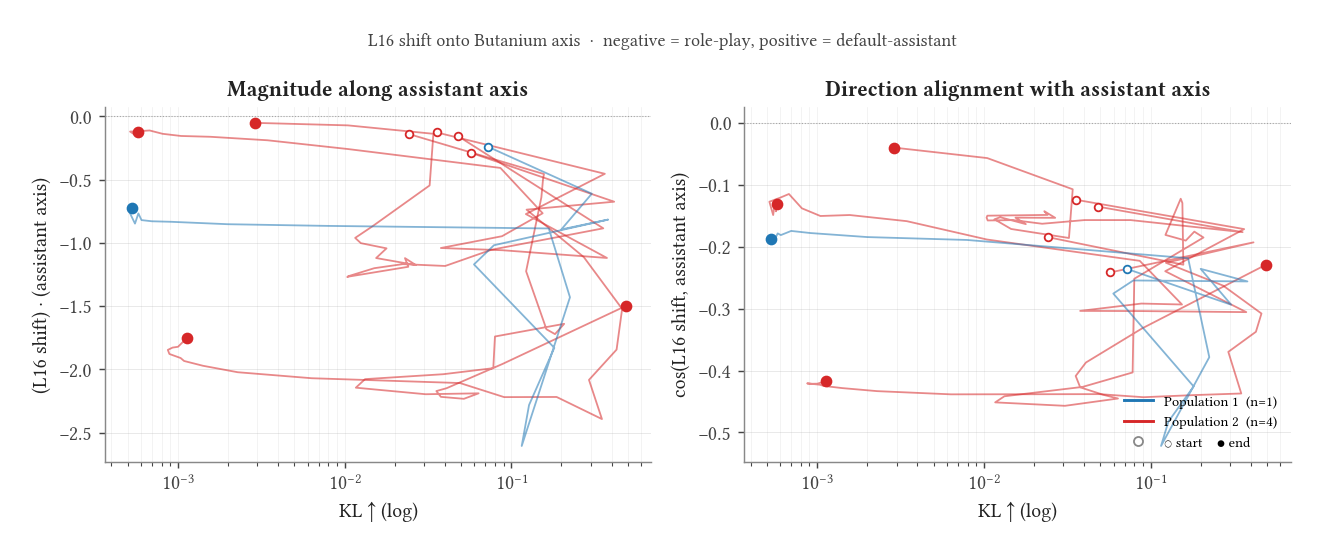
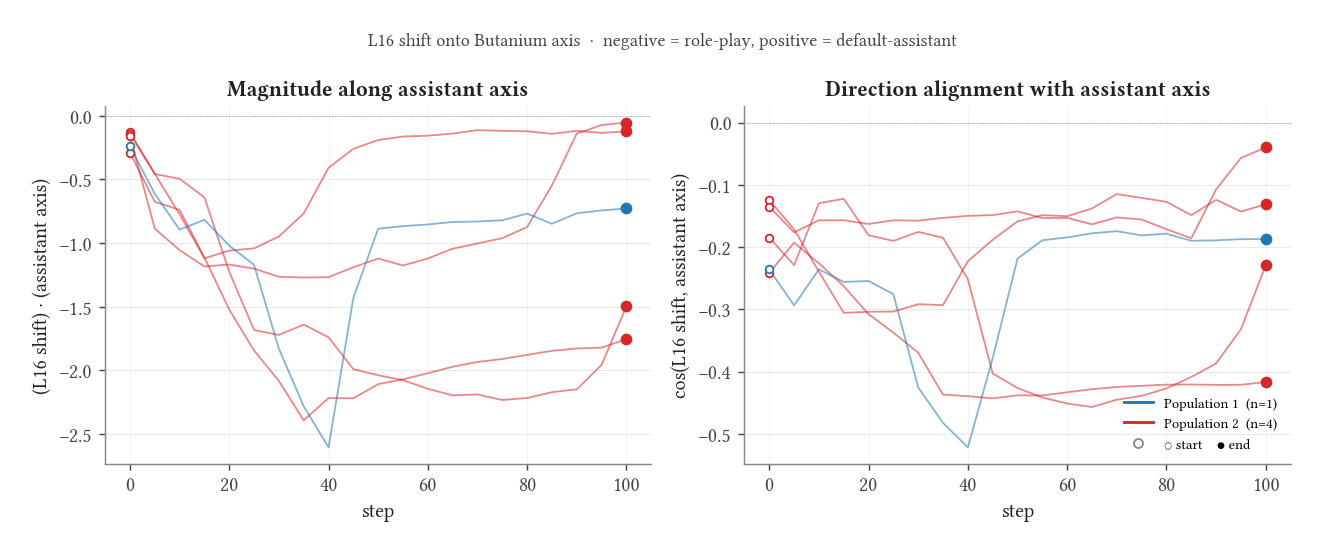
Add --x step option to replot_axis.py; chain axis.png uses step axis
KL is non-monotonic in chain training (sawtoothes per segment, then
collapses). Step is the only monotonic progression, so it's the right
x-axis for chain runs. Static-teacher runs still use --x kl (default).

Chain axis.png with step on x makes the trajectory shape obvious:
all 5 seeds dip toward role-play (low cos) mid-training around step
30-50, then most recover toward vanilla. Seed_0 (Scottish persona)
stays at cos ≈ -0.42; seed_4 (briefly deep) recovers to ≈-0.19;
seeds 1, 3 (vanilla-collapsed) end near cos ≈-0.05 / -0.13.

diff --git a/scripts/replot_axis.py b/scripts/replot_axis.py
@@ -4,9 +4,16 @@ The full csp_div.analyze_assistant_axis pipeline does a GPU eval pass to
 *generate* axis.json. Once that data exists, the figure is just a function
 of the JSON — re-rendering with a new style needs no GPU.
 
+X-axis choice:
+  --x kl   (default): log KL on x — appropriate for static-teacher runs
+                      where KL grows monotonically with training.
+  --x step           : training step on x — appropriate for chain-teacher
+                      runs where KL is non-monotonic (sawtoothes, then
+                      collapses) and step is the only monotonic progression.
+
 Usage:
   python scripts/replot_axis.py results/qwen/axis.json
-  python scripts/replot_axis.py results/qwen/axis.json results/llama/axis.json ...
+  python scripts/replot_axis.py --x step results/llama_chain/axis.json
 """
 import argparse
 import json
@@ -17,12 +24,26 @@ matplotlib.use("Agg")
 import matplotlib.pyplot as plt
 
 from csp_div.plot_style import (
-    basin_color, basin_legend, draw_endpoints, draw_trajectory,
+    EDGE_COLOR, basin_color, basin_legend, draw_endpoints, draw_trajectory,
     panel_title, style_kl_axis, trajectory_basin,
 )
 
 
-def replot(axis_json_path, out_path=None):
+def _style_step_axis(ax, ylabel):
+    """Linear-step variant of style_kl_axis. Same chrome conventions."""
+    ax.axhline(0, color=EDGE_COLOR, linewidth=0.6, linestyle=":", alpha=0.7)
+    ax.set_xlabel("step")
+    ax.set_ylabel(ylabel)
+    ax.yaxis.grid(True, alpha=0.3, linewidth=0.5)
+    ax.xaxis.grid(True, alpha=0.2, linewidth=0.4)
+    ax.set_axisbelow(True)
+    ax.spines["top"].set_visible(False)
+    ax.spines["right"].set_visible(False)
+    ax.spines["left"].set_color(EDGE_COLOR)
+    ax.spines["bottom"].set_color(EDGE_COLOR)
+
+
+def replot(axis_json_path, out_path=None, x_kind="kl"):
     if out_path is None:
         out_path = axis_json_path.replace(".json", ".png")
 
@@ -51,16 +72,20 @@ def replot(axis_json_path, out_path=None):
             if not basin_filter(group_basins[g]):
                 continue
             color = basin_color(group_basins[g])
-            kls = [r["kl"] for r in rs]
+            xs = [r["step" if x_kind == "step" else "kl"] for r in rs]
             dots = [r["proj_dot"] for r in rs]
             coss = [r["proj_cos"] for r in rs]
-            draw_trajectory(axes[0], kls, dots, color, zorder=zorder)
-            draw_endpoints(axes[0], kls, dots, color, zorder=zorder + 2)
-            draw_trajectory(axes[1], kls, coss, color, zorder=zorder)
-            draw_endpoints(axes[1], kls, coss, color, zorder=zorder + 2)
+            draw_trajectory(axes[0], xs, dots, color, zorder=zorder)
+            draw_endpoints(axes[0], xs, dots, color, zorder=zorder + 2)
+            draw_trajectory(axes[1], xs, coss, color, zorder=zorder)
+            draw_endpoints(axes[1], xs, coss, color, zorder=zorder + 2)
 
-    style_kl_axis(axes[0], ylabel=f"(L{layer} shift) · (assistant axis)")
-    style_kl_axis(axes[1], ylabel=f"cos(L{layer} shift, assistant axis)")
+    if x_kind == "step":
+        _style_step_axis(axes[0], f"(L{layer} shift) · (assistant axis)")
+        _style_step_axis(axes[1], f"cos(L{layer} shift, assistant axis)")
+    else:
+        style_kl_axis(axes[0], ylabel=f"(L{layer} shift) · (assistant axis)")
+        style_kl_axis(axes[1], ylabel=f"cos(L{layer} shift, assistant axis)")
     panel_title(axes[0], "Magnitude along assistant axis")
     panel_title(axes[1], "Direction alignment with assistant axis")
     basin_legend(axes[1], n_dippers, n_nondippers, loc="lower right")
@@ -81,9 +106,14 @@ def main():
     parser = argparse.ArgumentParser()
     parser.add_argument("axis_json", nargs="+",
                         help="One or more axis.json paths. PNG is written next to each.")
+    parser.add_argument("--x", choices=["kl", "step"], default="kl",
+                        help="What to put on the x-axis: 'kl' (log KL — default, "
+                             "appropriate for static-teacher runs) or 'step' "
+                             "(linear step — appropriate for chain-teacher runs "
+                             "where KL is non-monotonic).")
     args = parser.parse_args()
     for p in args.axis_json:
-        replot(p)
+        replot(p, x_kind=args.x)
 
 
 if __name__ == "__main__":
